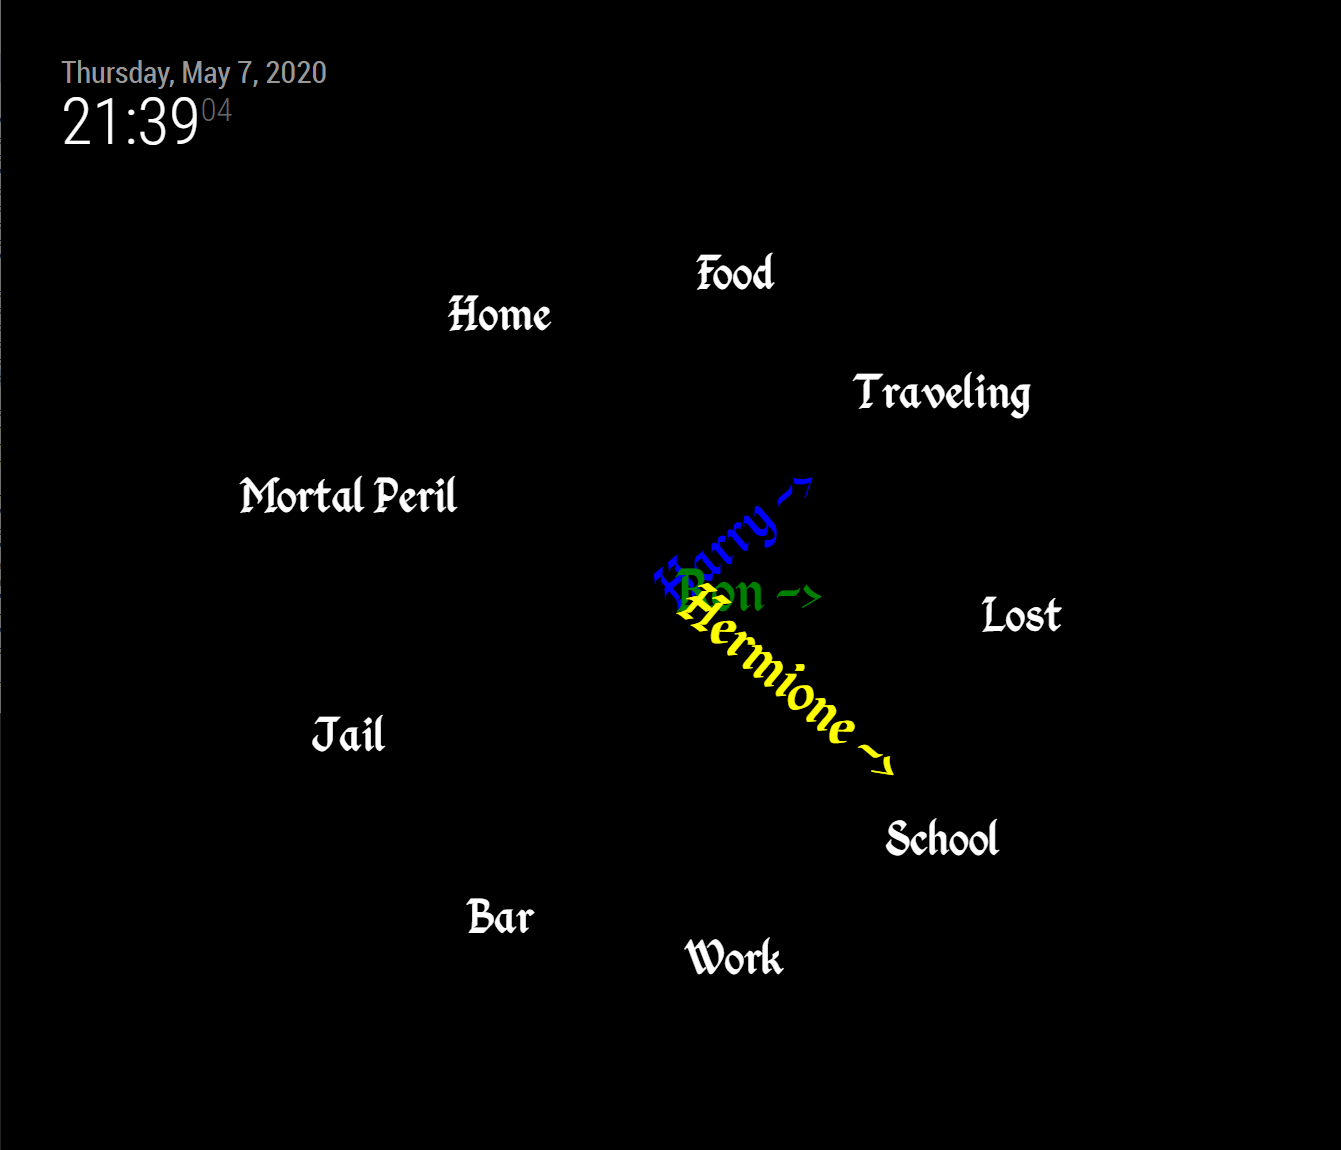
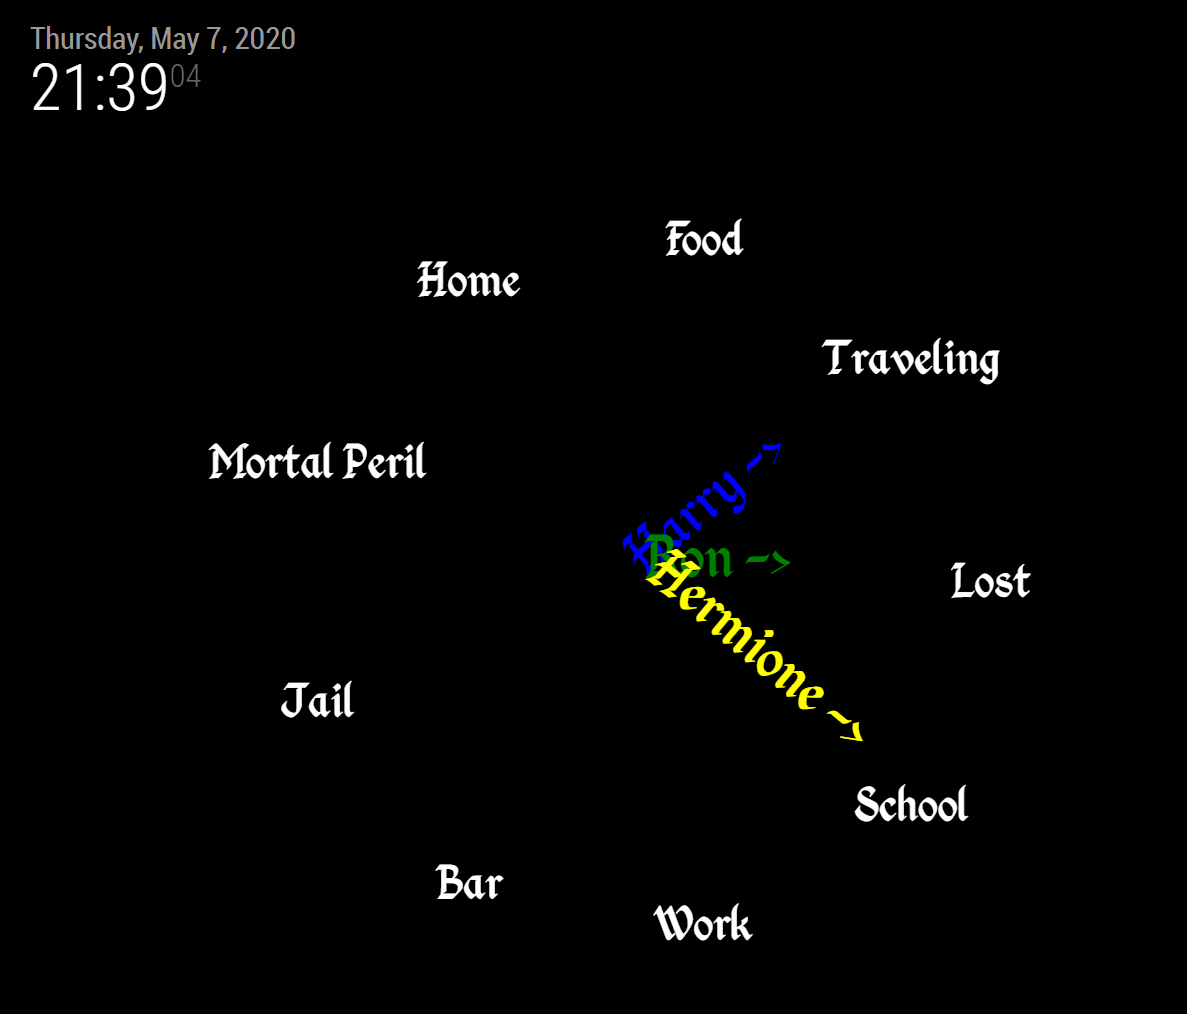
Added screenshots to README. Added mobile app config instructions.

diff --git a/MMM-WeasleyClock.css b/MMM-WeasleyClock.css
@@ -18,3 +18,11 @@
   
   }
 
+.MMM-WeasleyClock td.location {
+	font-family: cursive;
+}
+
+.MMM-WeasleyClock td.person {
+	font-family: cursive;
+}
+

diff --git a/README.md b/README.md
@@ -1,5 +1,6 @@
 # MMM-WeasleyClock
-Magic Mirror module for displaying results from [OwnTracks](http://owntracks.org) in a manner similar to the _Harry Potter_ series of movies. This module will parse messages sent from your mobile phone and display your rough location.
+<img src=images/module1.png border=1 width=600><br>
+A Magic Mirror module for displaying results from [OwnTracks](http://owntracks.org) in a manner similar to the _Harry Potter_ series of movies. This module will parse messages sent from your mobile phone and display your rough location.
 
 This module was inspired by the Instructable [Build Your Own Weasley Location Clock](https://www.instructables.com/id/Build-Your-Own-Weasley-Location-Clock/).
 ## Installation on the Mirror
@@ -10,10 +11,25 @@ git clone https://github.com/BrianHepler/MMM-WeasleyClock
 cd MMM-WeasleyClock
 npm install
 ```
+Modify your `config.js` file to include the module.
+```
+{
+    module: "MMM-WeasleyClock",
+    position: "middle_center",
+    config: {
+        uniqueId: "demo",
+        locations: {"School", "Work", "Jail", "Mortal Peril", "Bar", "Traveling", "Home"},
+        people: ["Harry","Ron","Hermione"],
+    },
+},
+```
+
+<br><img src=images/status_success.png border=1 height=400>
 ### Dependencies
 * A working installation of [Magic Mirror](https://github.com/MichMich/MagicMirror)
 * `mqtt` to connect to the mosquitto message broker
 * `svg.js` to draw the clock
+* `Howler` to play the sound file
 
 ## How it works
 The basic operational flow goes like this:
@@ -39,8 +55,49 @@ enter a unique ID, everyone who uses the same ID will be able to see your moveme
     },
 },
 ```
+## Installation on Your Phone
+OwnTracks is a free (as in beer) application for your mobile phone. Go to the Google Play Store or the iTunes store and search for OwnTracks. Install the app and then open it, just like you were installing Candy Crush.
+
+On your computer, download the included certificate `weasley_mirror_ca.crt` from this repository and email it to yourself (or copy the file to your phone over USB).
+
+Once the app is open, click on the menu in the upper left and select Preferences at the bottom.<br><img src=images/menu.png height=400 border=1> <img src=images/preferences.png height=400 border=1>
+
+Press the Connect option and then configure the connection Mode to use MQTT.
+<br><img src=images/connection.png height=300 border=1><br>
+Configure the Host menu with the following values. Host=`weasleymirror.duckdns.org`, Port=`8883`. Do not use websockets.
+<br><img src=images/host.png height=200 border=1><br>
+Configure the Identification with values unique to you. The fields in the OwnTracks app do not exactly match up to the module's terminology. So here is what you put in each field:
+* `Username` = Your unique ID from the module configuration. Any alphanumeric string, may not contain spaces.
+* `Password` = Make up a password. It doesn't matter.
+* `Device ID` = The name of the person using this phone. A single word, no spaces. This must match one of the entries in the `people` array in your module configuration.
+* `Tracker ID` = A two-character identifier. Can be any 2 alphanumeric characters.
+
+<br><img src=images/identification.png border=1 height=200><br>
+Configure the app security by giving it the certificate file that you emailed to yourself. First, click on the file attachment to download it to your phone.
+<br><img src=images/email_cert.png border=1 height=400><br>
+Once the cert is downloaded, specify the cert in the security configuration. You will be able to pick the file from your phone's file system here. You should leave the last two fields blank.
+<br><img src=images/security.png border=1 height=200><br>
+Finally, configure the client to use a clean session. (basically, have no memory of previous connections)<br>
+<img src=images/parameters.png border=1 height=200><br>
+Once everything is complete, you can go back to the Preferences menu and click on the Status menu item and see Connected at the top.<br>
+<img src=images/status_success.png border=1 height=300>
+
+Whew! At this point, you are connected to my MQTT server, but your phone doesn't know anything about the locations you specified in the `config.js`. Specifying a location in OwnTracks is currently rather cumbersome, but it's worth it when you're done.
+
+You need to create Regions in OwnTracks that match to the locations you wish to display in your Weasley Clock. 
+### Adding Regions to OwnTracks
+In order for the module to work, the OwnTracks app will need to know the location of each location you're displaying in the module. So you'll need:
+- The list of locations that you configured for your mirror.
+- The longitude & latitude for each of those locations.
+
+Note: The locations can be different for each phone. For example, my wife and I both have "Work" configured on our phones, but we have different long/lat configured. As our respect phones enter the different regions, they each report that we have entered "Work" to the mirror.
+
+In the OwnTracks app, opent he menu and click on Regions. Click on the "+" button to add a new region. Enter the name of the location and the longitude & latitude. Add a radius to define the area that the phone will consider to be that location. 250 meters is a good starting point.
+<br><img src="images/regions.png" border=1 height=200> <img src=images/region_edit.png border=1 height=200>
+
 ### Table Mode
-If you wish to have a compact representation of the OwnTracks data, you can switch the display to a simple two-column table. It contains a list of the defined people and their interpreted location. This is good for smaller areas of the Magic Mirror interface. See the 
+<img src=images/table_mode.png border=1 height=200><br>
+If you wish to have a compact representation of the OwnTracks data, you can switch the display to a simple two-column table. It contains a list of the defined people and their interpreted location. This is good for smaller areas of the Magic Mirror interface. Table mode also will not play sounds when locations update.
 
 ## Configuration Options (Module)
 These are the options to configure the module. Configuring the OwnTracks application will be handled below.
@@ -74,13 +131,18 @@ These are the options to configure the module. Configuring the OwnTracks applica
         <br><b>Default: </b>clock
     </td>
 </tr>
+<tr><td><b>sounds</b></td>
+    <td><b>Description: </b>Turns on or off the sound that plays when the hands move position. Sound does not play in table mode.
+        <br><b>Default: </b>true
+    </td>
+</tr>
 <tr><td><b>debug</b></td>
     <td><b>Description: </b>Turns on verbose logging in both the browser console and the node console. Warning: I'm a bit verbose.
         <br><b>Default: </b>false
     </td>
 </tr>
 <tr><td><b>host</b></td>
-    <td><b>Description: </b>The URI of the message broker. This is where the module will listen for messages from OwnTracks.
+    <td><b>Description: </b>The URL of the MQTT server (aka, the message broker). This is where the module will listen for messages from OwnTracks.
         <br><b>Default: </b>weasleymirror.duckdns.org
         <br><b>Note:</b> The module defaults to using TLS security. If you change this value, you will also have to provide your own certificates.
     </td>
